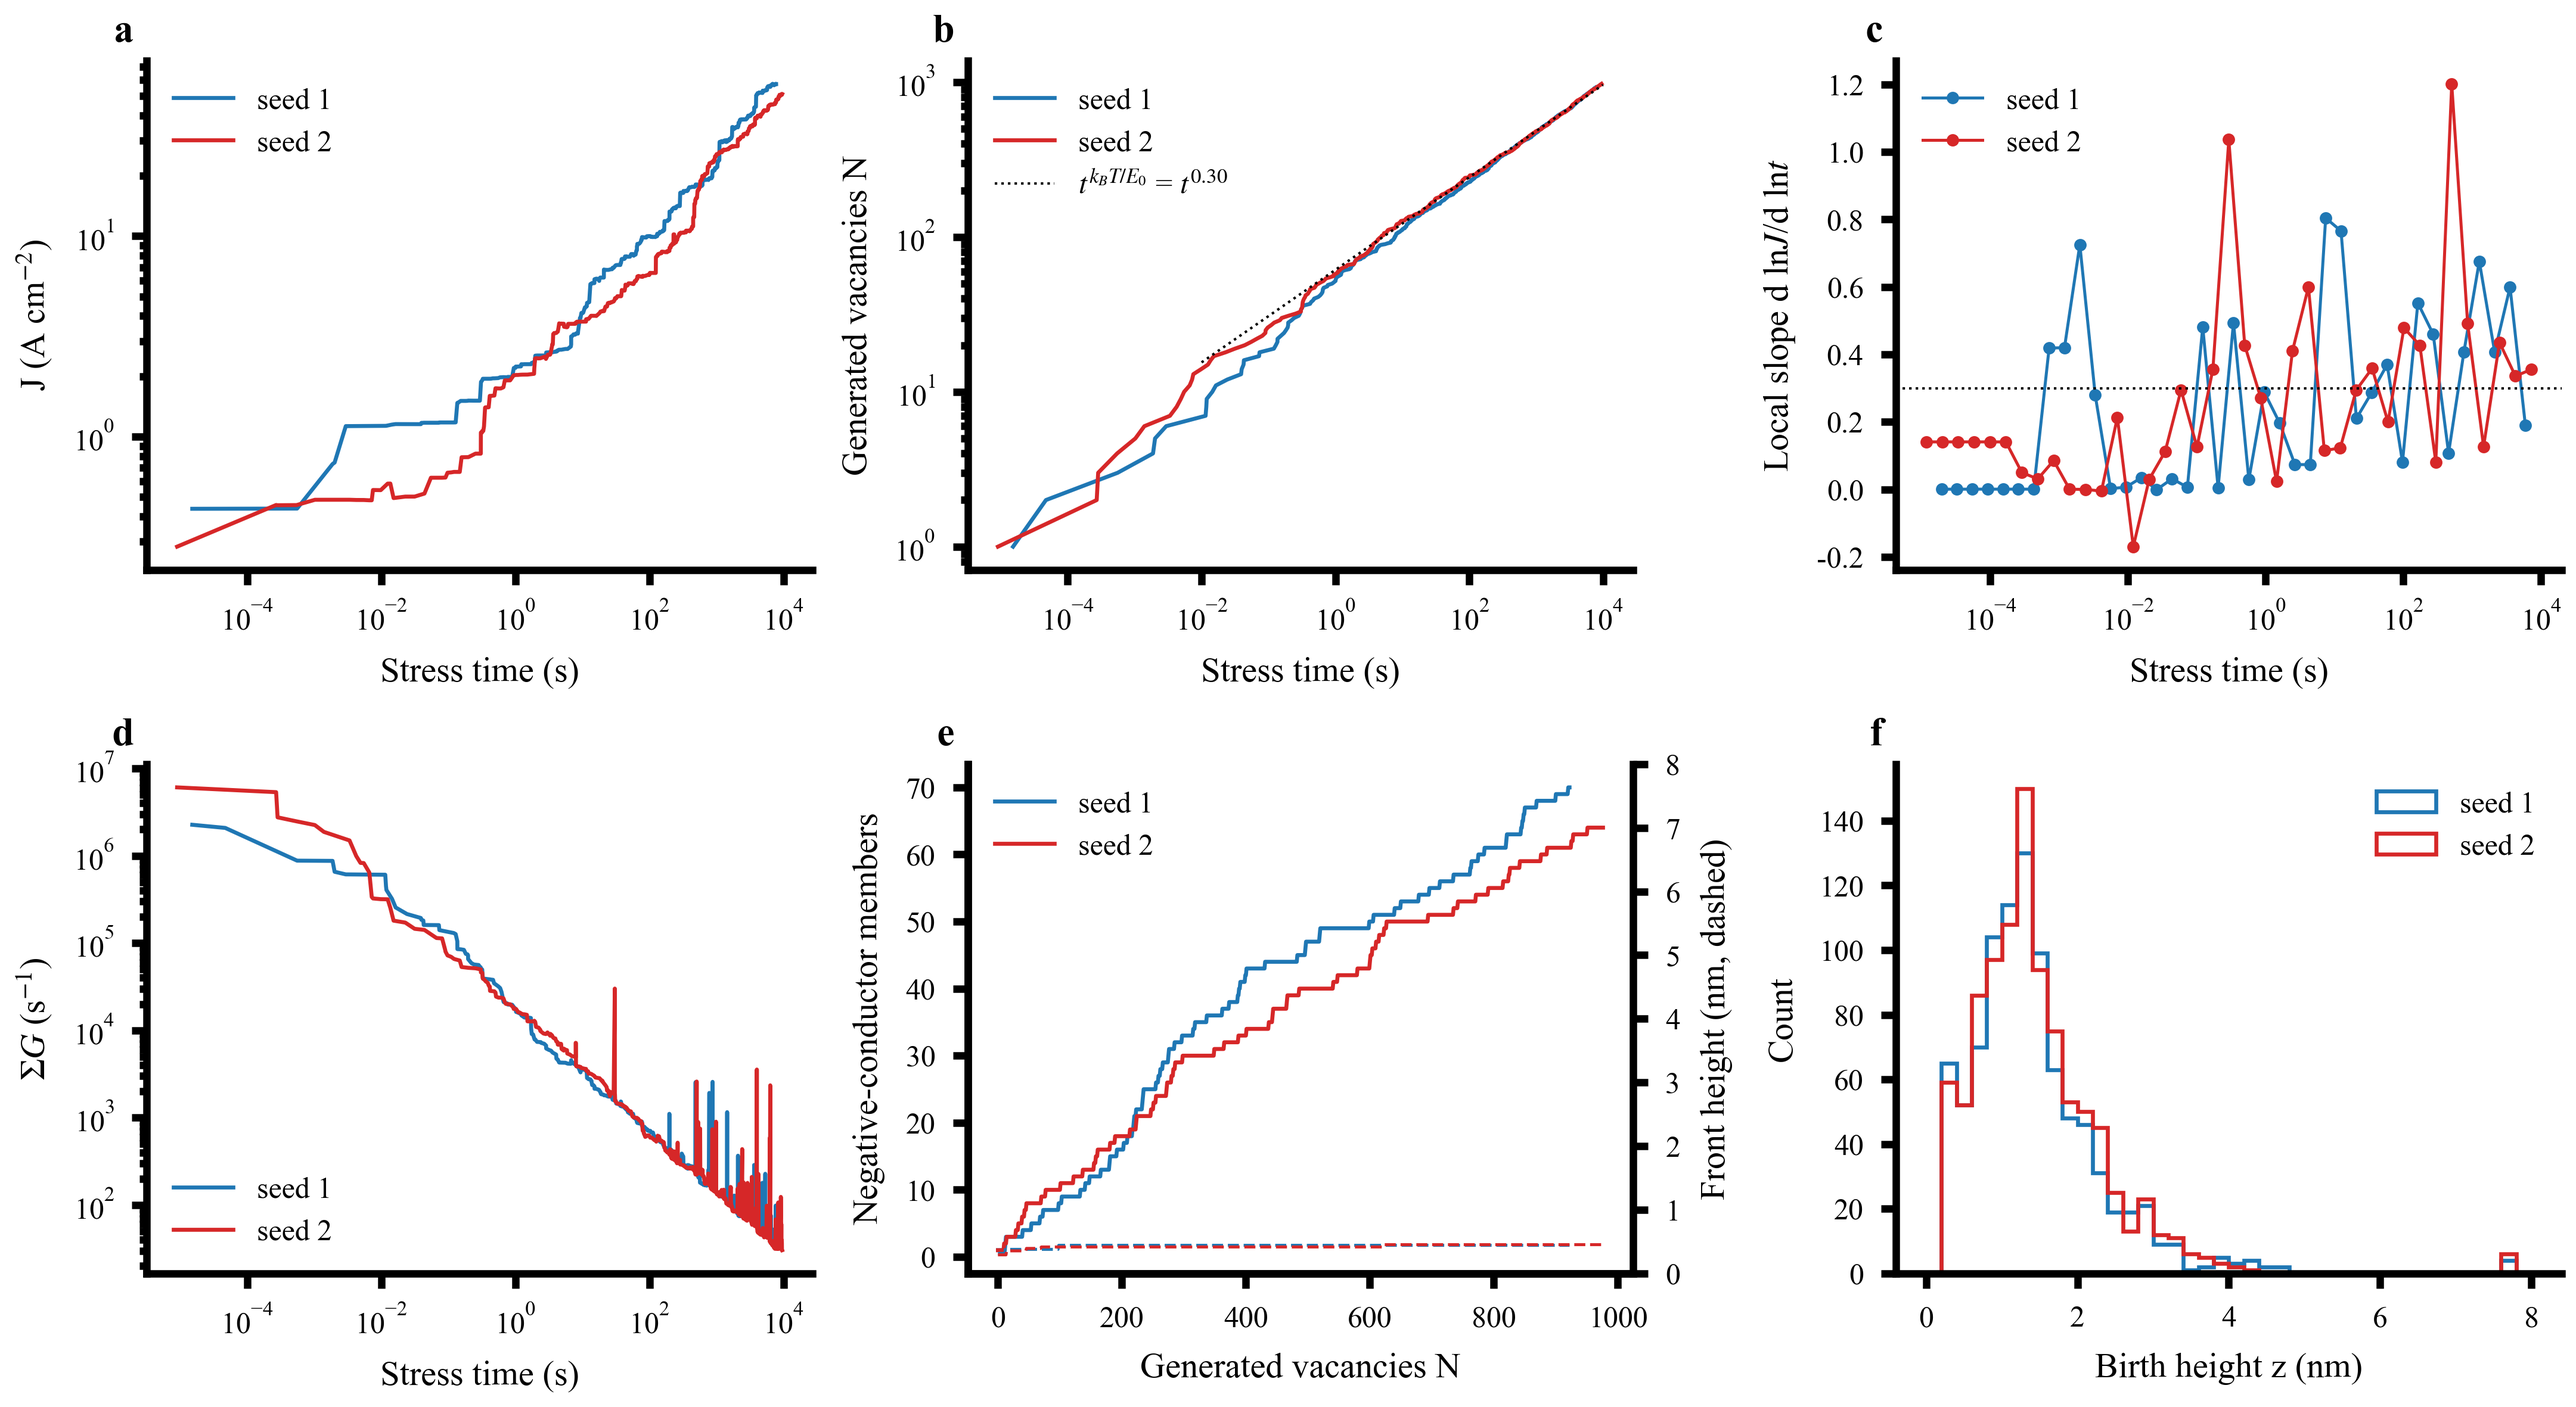
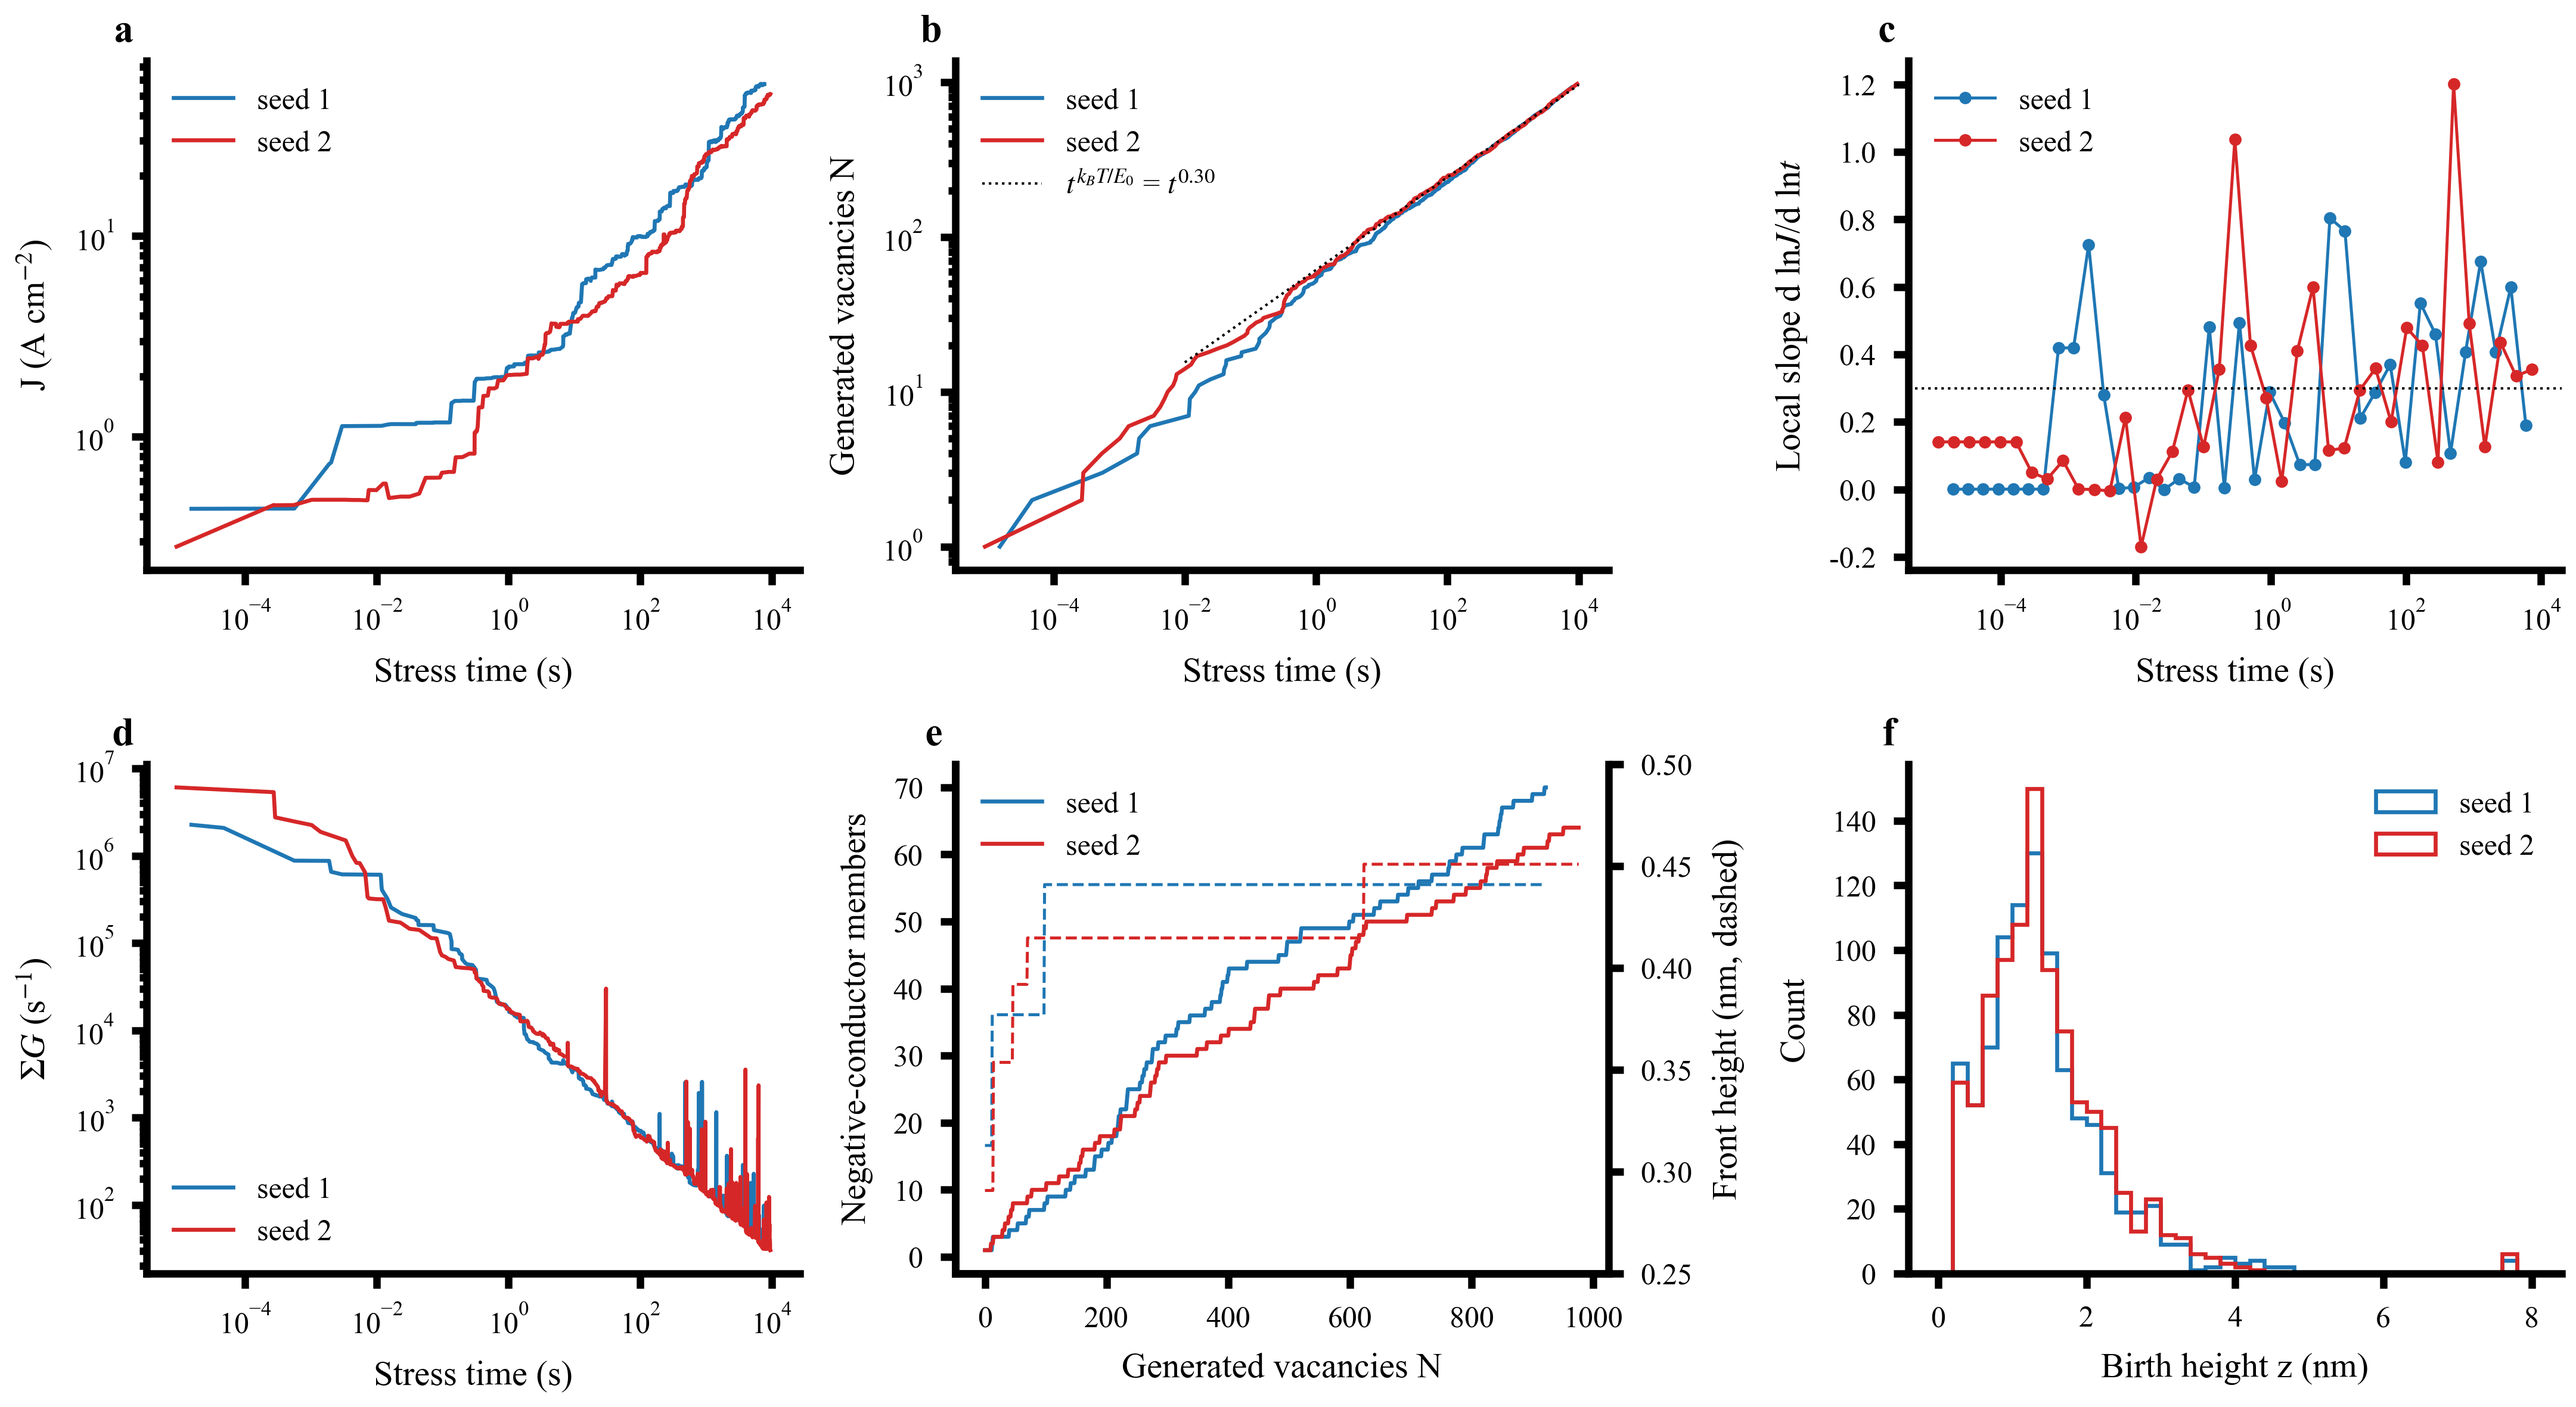
results/10.19/accept: it_accept (e) 最高点右轴改为 0.25–0.5 nm

diff --git a/results/10.19/accept/analyze.py b/results/10.19/accept/analyze.py
@@ -148,7 +148,7 @@ for s in SEEDS:
     d = new[s]
     twin.plot(d["n_generated"], d["negative_front_nm"], color=COLORS[s], ls="--", lw=0.6)
 twin.set_ylabel("Front height (nm, dashed)")
-twin.set_ylim(0, 8)
+twin.set_ylim(0.25, 0.5)
 twin.spines["right"].set_visible(True)
 ax.legend(frameon=False, loc="upper left")
 
